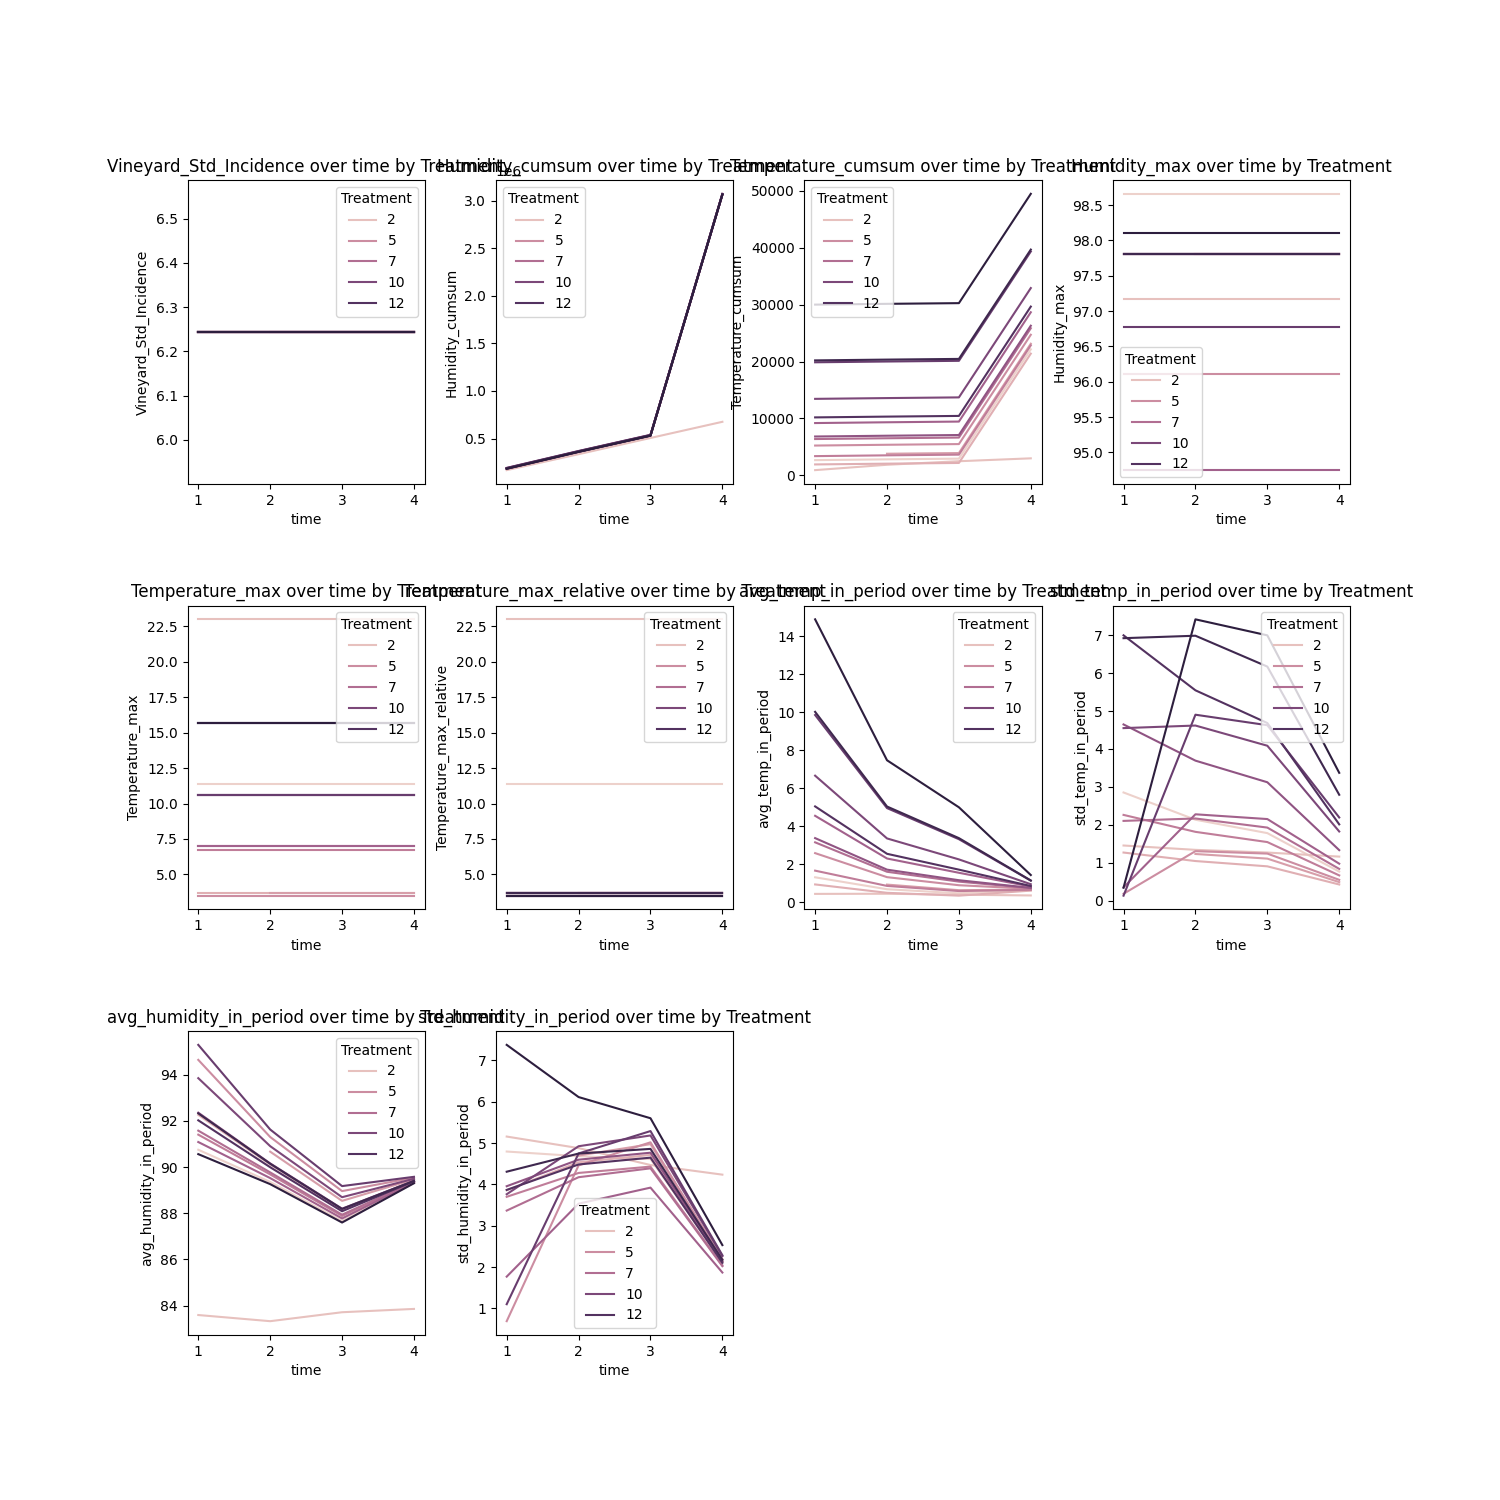
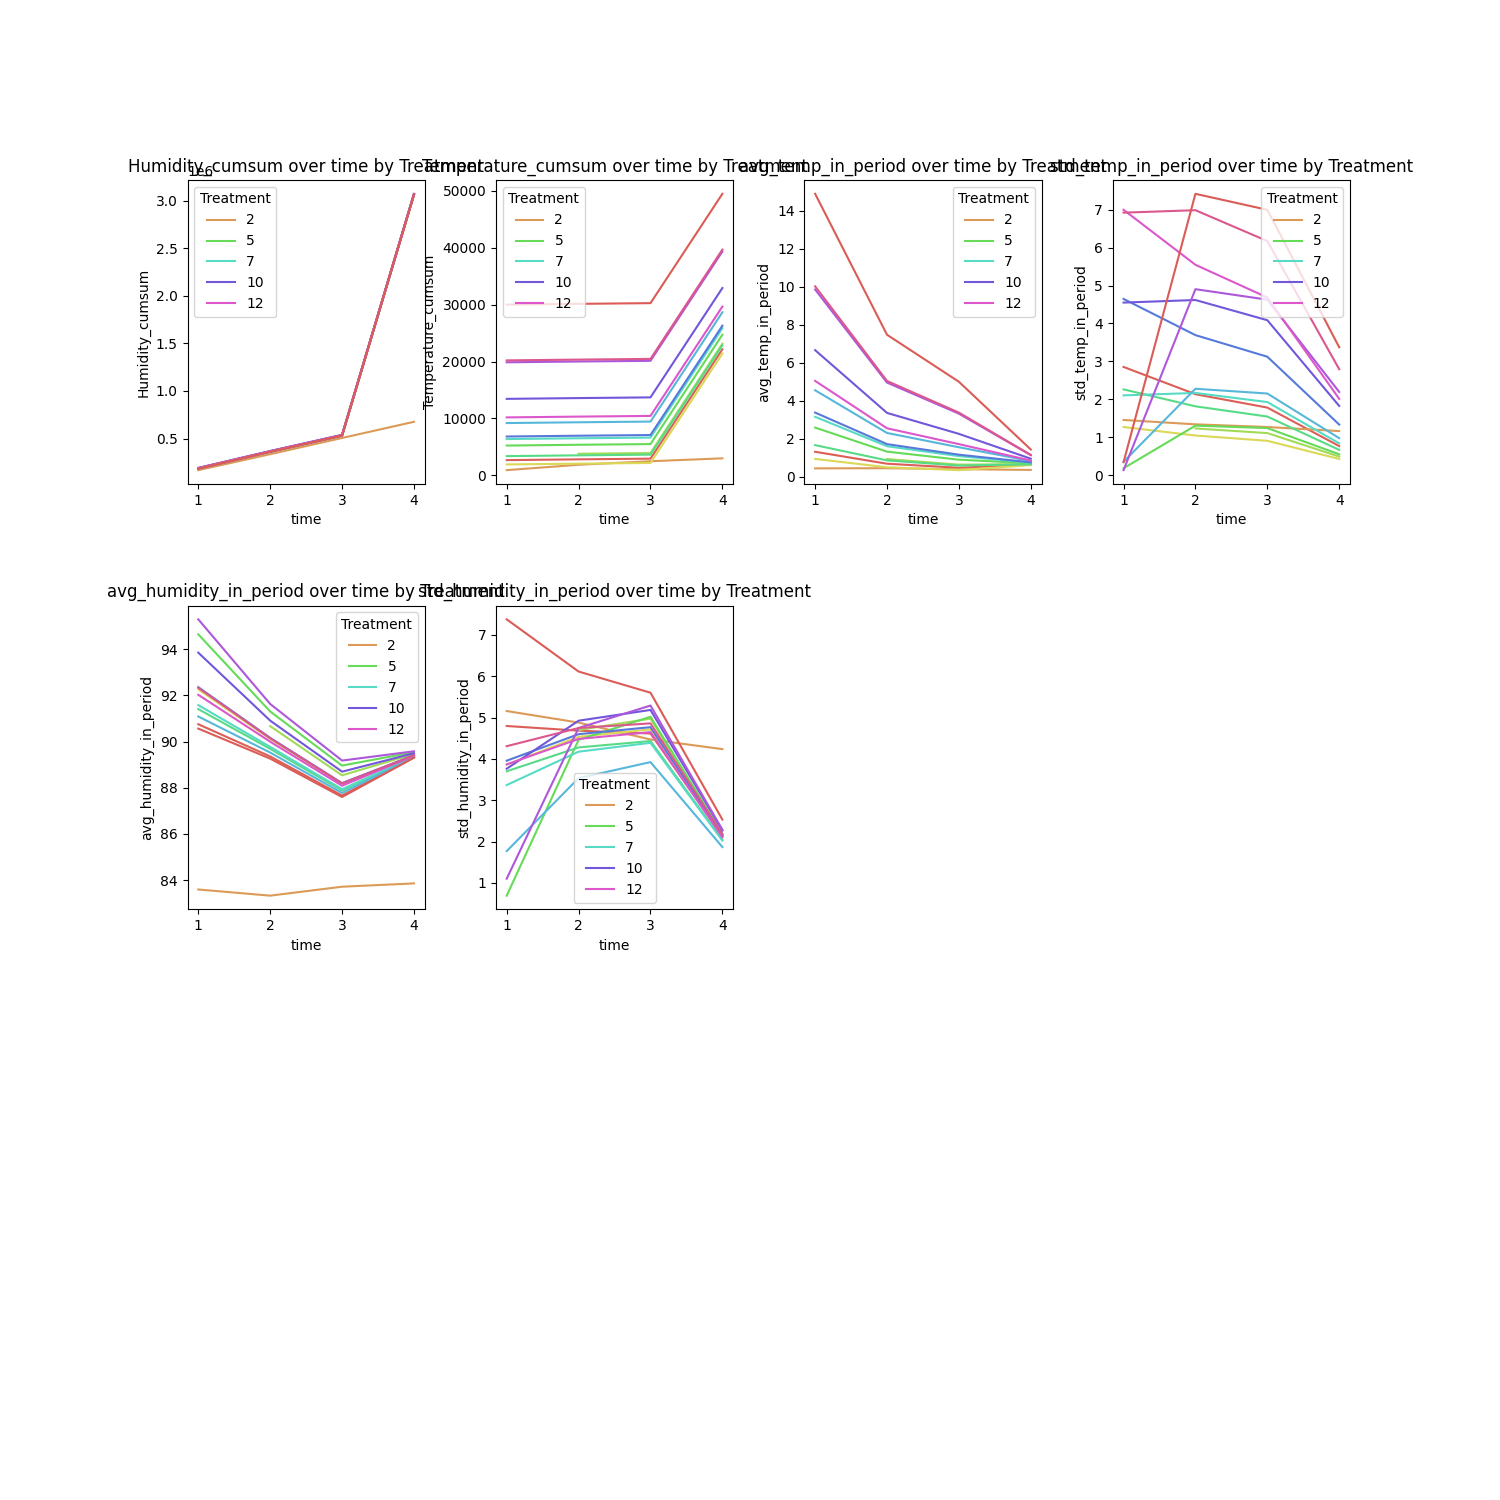
partial success in relevant data to print

diff --git a/utils.py b/utils.py
@@ -40,7 +40,7 @@ COLS_ONLY_OUT = ['Weightloss (%)','Bleaching index ','Decay', 'Decay (%)', 'Shri
 NOT_PRINT_TRENDS = ['Vineyard', 'Treatment', 'Replication', 'Time', 'Vineyard_Number_of_measures', 'Vineyard_index',
                     'Vineyard_Std_index','Vineyard_Incidence', 'new_time', 'treatment','mapped_period' ]
 
-DIMS_FOR_GRAPHS = ['Vineyard', 'Treatment', 'new_time', 'disruption_temperature', 'disruption_length']
+DIMS_FOR_GRAPHS = ['Vineyard', 'new_time', 'disruption_temperature', 'disruption_length']
 COLS_HUE = ['disruption_length', 'disruption_temperature']
 
 
@@ -285,9 +285,11 @@ def plot_graph(df: pd.DataFrame, col_name: str, dim_list: list, hue: str, tmp_di
     '''
     df_plot = df.fillna(np.inf).groupby(dim_list)[[col_name]].mean().replace(np.inf, np.nan).reset_index()
     dim_list_for_grpah = dim_list + [col_name]
+    sns.set_palette("PuBuGn_d")
     axs = sns.lineplot(data=df_plot, x="new_time",
-                      y=col_name, hue=hue, ci=None,legend=True)
-    sns.color_palette("Paired")
+                       y=col_name, hue=hue, ci=None,legend=True,palette='hls')
+
+    # sns.color_palette("Paired")
     axs.xaxis.set_major_locator(ticker.MultipleLocator(1))
     axs.set(xlabel='time', ylabel=col_name, title=col_name + ' over time by ' +hue)
     axs.plot()
@@ -320,6 +322,9 @@ def get_data_storage(path_storage,treat_dict):
     return df_storage_data_final
 
 
+# def is_interesting_data_for_plot(df:pd.DataFrame):
+
+
 def create_all_subplots(features_list: list, full_storage_data, features_list_t0: list = None,dimension_list=DIMS_FOR_GRAPHS,ncols=4,):
     '''
     :param features_list: list of all features exist in the data, on this features we will plot all relevant subplot
@@ -344,14 +349,22 @@ def create_all_subplots(features_list: list, full_storage_data, features_list_t0
         data = (features_list,  range(len(features_list)))
 
     for i, hue in enumerate(temp_dim_list):
-            fig = plt.figure(figsize=(15, 15))
+            fig = plt.figure(figsize=(24, 24))
             fig.subplots_adjust(hspace=0.4, wspace=0.3)
+            i_print = 1
             for tup in zip(*data):
-                ax = fig.add_subplot(Rows, ncols, tup[-1] + 1)
                 data_for_grpah = flatten_data_to_grpah(dim_list=dimension_list, df=full_storage_data, col_name=tup[0],
                                                        col_name_t0=tup[1] if features_list_t0 is not None else None)  # take t0 data if exist
-                plot_graph(df=data_for_grpah, col_name=tup[0], dim_list=dimension_list, hue=hue,
-                           tmp_dim_list=temp_dim_list, axs=ax)
+
+                df_plot_check = data_for_grpah.fillna(np.inf).groupby(dimension_list)[[tup[0]]].mean().replace(np.inf,np.nan).reset_index()
+                if (df_plot_check[[hue,tup[0]]][tup[0]]).nunique() > max(df_plot_check[hue].nunique(),4):
+                    ax = fig.add_subplot(Rows, ncols, i_print)
+                    plot_graph(df=data_for_grpah, col_name=tup[0], dim_list=dimension_list, hue=hue,
+                               tmp_dim_list=temp_dim_list, axs=ax)
+                    i_print+=1
+                    ax.get_legend().remove()
+            handles, labels = ax.get_legend_handles_labels()
+            fig.legend(handles, labels, loc='lower right', bbox_to_anchor=(.6, .6))
             fig2 = plt.gcf()
             plt.show()
             plt.draw()
@@ -366,10 +379,13 @@ if __name__ == '__main__':
         relevant_cols) - Counter(NOT_PRINT_TRENDS) - Counter(COLS_HUE)).elements())
 
     # print all subplots
-    for feature_list in (#[relevant_cols,relevant_t0_cols], [COLS_ONLY_OUT,None],
-                         [storage_list,None]):
-        create_all_subplots(features_list=feature_list[0], features_list_t0=feature_list[1], ncols=4,
-                            dimension_list=DIMS_FOR_GRAPHS, full_storage_data=full_data_w_storage)
+    data_to_plot = {1: [relevant_cols, relevant_t0_cols],
+                    2: [COLS_ONLY_OUT, 'None'],
+                    3: [storage_list, 'None'],
+                    }
+    for feature_list in enumerate(data_to_plot.values()):
+        create_all_subplots(features_list=feature_list[1][0], features_list_t0=feature_list[1][1] if feature_list[1][1]!= 'None' else None,
+                             ncols=4, dimension_list=DIMS_FOR_GRAPHS, full_storage_data=full_data_w_storage)
 
     # create correlation matrix
     in_cols = [col for col in raw_data.columns if 'T0' in col]
